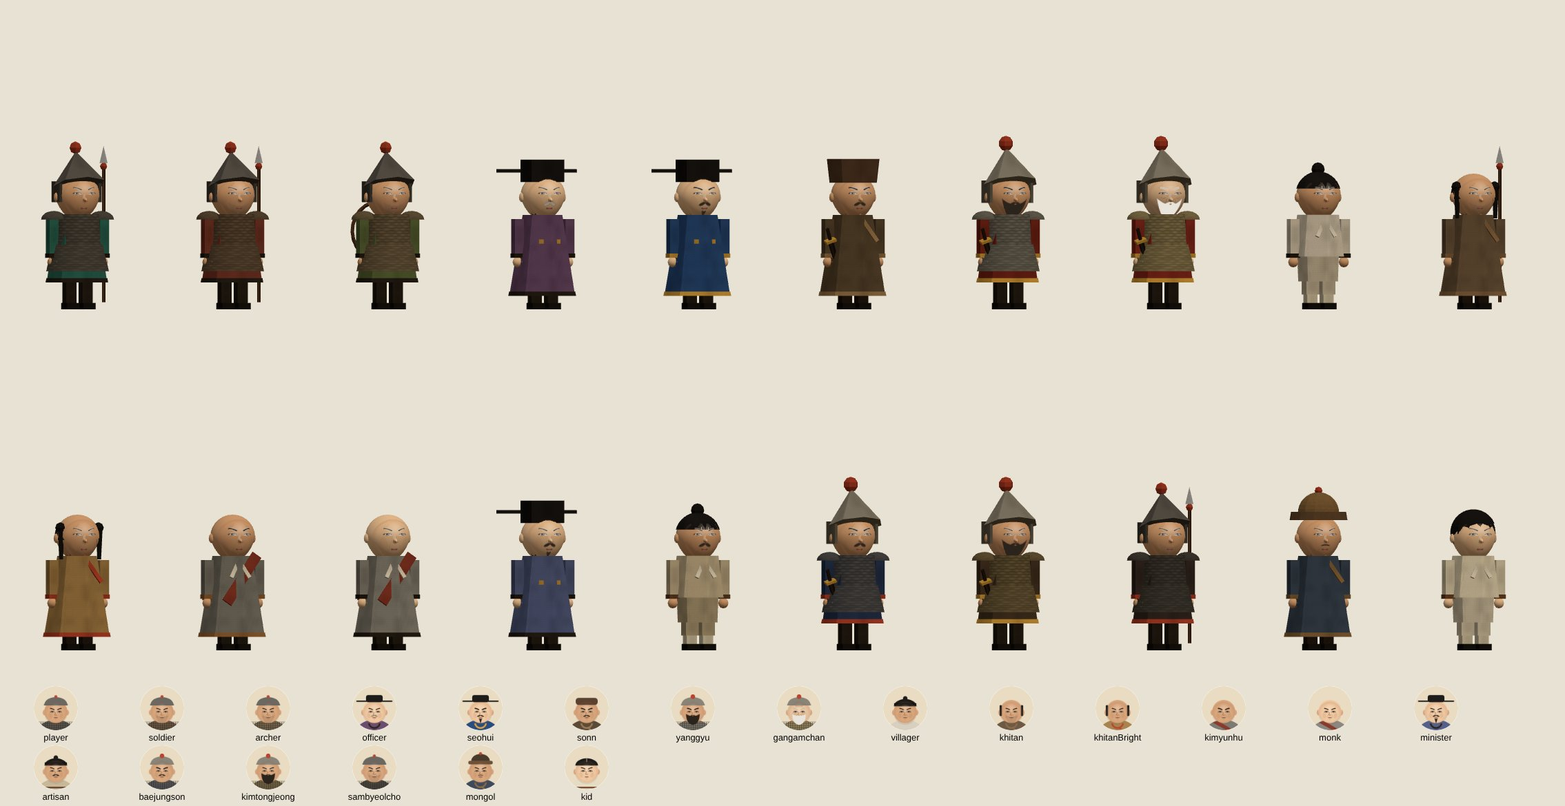
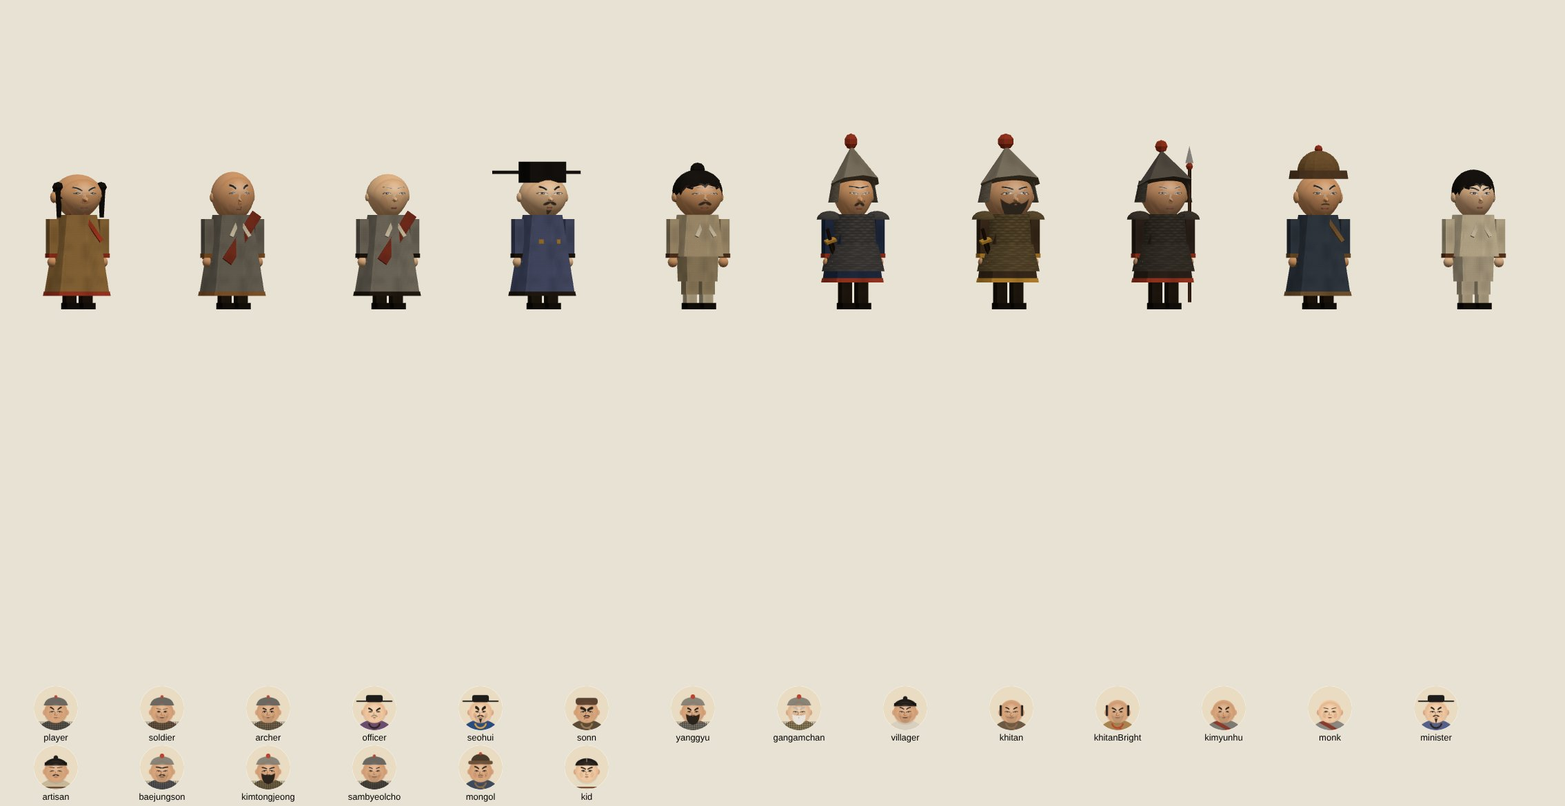
생김새: 사람마다 다른 눈·눈썹·코·입·턱·얼굴 넓이·피부빛(faceVariant), 상투·댕기 머리 선 고침 (D-54)
Claude-Session: https://claude.ai/code/session_01RgZ5G1NQJkFwTfNsevZYYJ

diff --git a/core/faces.js b/core/faces.js
@@ -9,6 +9,8 @@ const SKIN = '#f0c9a2', SKIN_SHADE = '#d9a57f', INK = '#2b241c';
 //       beard(null·mustache·thin·thick·walrus·goatee·full), beardColor, browColor, glasses('round'), age('old'), blush
 export function drawFeatures(g, face = {}, cx, cy, R) {
   const { eyes = 'round', brows = 'normal', mouth = 'smile', beard = null, beardColor = INK, browColor = INK, glasses = null, age = null } = face;
+  // 사람마다 다른 생김새(D-54): faceVariant가 정한 눈·눈썹·코·입 크기와 모양(없으면 기본)
+  const v = { eyeW: 1, eyeH: 1, tilt: 0, gap: 1, lid: 'double', browT: 1, browY: 0, browL: 1, browA: 1, noseW: 1, noseL: 1, mouthW: 1, lip: 1, mole: null, cheek: 1, iris: '#4a3020', ...(face.v || {}) };
   const LINE = '#8a5a40', SHADE = 'rgba(150, 95, 65, 0.55)';
   g.save();
   g.lineCap = 'round'; g.lineJoin = 'round';
@@ -25,6 +27,7 @@ export function drawFeatures(g, face = {}, cx, cy, R) {
     hi.addColorStop(0, 'rgba(255, 240, 225, 0.35)'); hi.addColorStop(1, 'rgba(255, 240, 225, 0)');
     g.fillStyle = hi; g.beginPath(); g.ellipse(cx, cy - 0.3 * R, 0.5 * R, 0.55 * R, 0, 0, Math.PI * 2); g.fill();
     g.fillStyle = 'rgba(150, 95, 65, 0.13)';
+    g.fillStyle = `rgba(150, 95, 65, ${0.13 * v.cheek})`;
     for (const sx of [-1, 1]) { g.beginPath(); g.ellipse(cx + sx * 0.5 * R, cy + 0.28 * R, 0.16 * R, 0.26 * R, sx * 0.3, 0, Math.PI * 2); g.fill(); }
   }
   // 어른 남자(수염이 있거나 sex가 정해지지 않은 어른): 옅은 팔자 주름. 아이·젊은이(age: 'young')는 그리지 않는다
@@ -33,7 +36,7 @@ export function drawFeatures(g, face = {}, cx, cy, R) {
     for (const sx of [-1, 1]) { g.beginPath(); g.moveTo(cx + sx * 0.14 * R, cy + 0.16 * R); g.quadraticCurveTo(cx + sx * 0.27 * R, cy + 0.3 * R, cx + sx * 0.24 * R, cy + 0.46 * R); g.stroke(); }
   }
   // 수염 자국(군인·일꾼 stubble)
-  if (face.stubble) {
+  if (face.stubble || v.stubble) {
     g.fillStyle = 'rgba(70, 60, 55, 0.16)';
     g.beginPath(); g.moveTo(cx - 0.55 * R, cy + 0.25 * R); g.quadraticCurveTo(cx - 0.45 * R, cy + 0.92 * R, cx, cy + 0.96 * R); g.quadraticCurveTo(cx + 0.45 * R, cy + 0.92 * R, cx + 0.55 * R, cy + 0.25 * R); g.quadraticCurveTo(cx, cy + 0.5 * R, cx - 0.55 * R, cy + 0.25 * R); g.fill();
   }
@@ -46,13 +49,16 @@ export function drawFeatures(g, face = {}, cx, cy, R) {
       g.beginPath(); g.arc(cx + sx * 0.33 * R, cy + 0.02 * R, 0.11 * R, Math.PI * 0.2, Math.PI * 0.8); g.stroke();
     }
   }
-  // 코: 콧날 그림자와 콧구멍
+  // 코: 콧날 그림자와 콧구멍(사람마다 넓이·길이가 다르다)
+  g.save(); g.translate(cx, cy); g.scale(v.noseW, v.noseL); g.translate(-cx, -cy);
   g.strokeStyle = LINE; g.lineWidth = Math.max(1.5, 0.035 * R);
   g.beginPath(); g.moveTo(cx - 0.03 * R, cy + 0.0 * R); g.quadraticCurveTo(cx - 0.08 * R, cy + 0.17 * R, cx - 0.07 * R, cy + 0.2 * R); g.stroke();
   g.beginPath(); g.moveTo(cx - 0.1 * R, cy + 0.22 * R); g.quadraticCurveTo(cx, cy + 0.27 * R, cx + 0.1 * R, cy + 0.22 * R); g.stroke();
+  g.restore();
   // 입: 윗입술 선과 아랫입술
   const my = cy + 0.46 * R;
   g.lineWidth = Math.max(2, 0.045 * R); g.strokeStyle = '#5a2e24';
+  g.save(); g.translate(cx, my); g.scale(v.mouthW, v.lip); g.translate(-cx, -my); // 입 넓이와 입술 두께
   if (mouth === 'smile') { g.beginPath(); g.arc(cx, my - 0.12 * R, 0.17 * R, Math.PI * 0.2, Math.PI * 0.8); g.stroke(); }
   else if (mouth === 'open') { g.fillStyle = '#7a2a22'; g.beginPath(); g.ellipse(cx, my, 0.1 * R, 0.08 * R, 0, 0, Math.PI * 2); g.fill(); }
   else {
@@ -63,6 +69,7 @@ export function drawFeatures(g, face = {}, cx, cy, R) {
     g.beginPath(); g.moveTo(cx - lw * R, my); g.quadraticCurveTo(cx, my + 0.012 * R, cx + lw * R, my); g.stroke();
     g.fillStyle = 'rgba(150, 95, 65, 0.22)'; g.beginPath(); g.ellipse(cx, my + 0.17 * R, 0.08 * R, 0.035 * R, 0, 0, Math.PI * 2); g.fill(); // 아랫입술 밑 그늘
   }
+  g.restore();
   // 수염
   g.fillStyle = beardColor;
   if (beard === 'full') {
@@ -96,17 +103,18 @@ export function drawFeatures(g, face = {}, cx, cy, R) {
   }
   // 눈: 흰자(아몬드꼴), 갈색 눈동자, 윗눈꺼풀 선. kind는 지그시 감은 눈
   for (const sx of [-1, 1]) {
-    const ex = cx + sx * 0.33 * R, ey = cy - 0.06 * R;
+    const ex = cx + sx * 0.33 * R * v.gap, ey = cy - 0.06 * R;
+    g.save(); g.translate(ex, ey); g.rotate(-sx * v.tilt); g.translate(-ex, -ey); // 눈꼬리가 올라가거나 처진 눈
     if (eyes === 'kind') {
       g.strokeStyle = INK; g.lineWidth = Math.max(2, 0.05 * R);
       g.beginPath(); g.arc(ex, ey + 0.05 * R, 0.13 * R, Math.PI * 1.1, Math.PI * 1.9); g.stroke();
-      continue;
+      g.restore(); continue;
     }
-    const h = eyes === 'stern' ? 0.072 * R : 0.09 * R, w = 0.17 * R;
+    const h = (eyes === 'stern' ? 0.072 : 0.09) * R * v.eyeH, w = 0.17 * R * v.eyeW;
     g.fillStyle = '#f7f1e6';
     g.beginPath(); g.moveTo(ex - w, ey); g.quadraticCurveTo(ex, ey - h * 1.6, ex + w, ey); g.quadraticCurveTo(ex, ey + h * 1.2, ex - w, ey); g.fill();
     g.save(); g.clip();
-    g.fillStyle = '#4a3020'; g.beginPath(); g.arc(ex, ey + 0.005 * R, 0.078 * R, 0, Math.PI * 2); g.fill();
+    g.fillStyle = v.iris; g.beginPath(); g.arc(ex, ey + 0.005 * R, 0.078 * R * Math.min(1.1, v.eyeH), 0, Math.PI * 2); g.fill();
     g.fillStyle = '#120c08'; g.beginPath(); g.arc(ex, ey + 0.005 * R, 0.04 * R, 0, Math.PI * 2); g.fill();
     g.fillStyle = '#ffffff'; g.beginPath(); g.arc(ex + 0.02 * R, ey - 0.02 * R, 0.018 * R, 0, Math.PI * 2); g.fill();
     g.restore();
@@ -114,8 +122,9 @@ export function drawFeatures(g, face = {}, cx, cy, R) {
     g.beginPath(); g.moveTo(ex - w * 1.05, ey + 0.005 * R); g.quadraticCurveTo(ex, ey - h * 1.7, ex + w * 1.05, ey); g.stroke();
     // 쌍꺼풀 대신 옅은 눈두덩 선과 아래 눈꺼풀
     g.strokeStyle = 'rgba(150, 95, 65, 0.4)'; g.lineWidth = Math.max(1.2, 0.022 * R);
-    g.beginPath(); g.moveTo(ex - w * 0.8, ey - h * 1.25); g.quadraticCurveTo(ex, ey - h * 2.3, ex + w * 0.95, ey - h * 1.1); g.stroke();
+    if (v.lid === 'double') { g.beginPath(); g.moveTo(ex - w * 0.8, ey - h * 1.25); g.quadraticCurveTo(ex, ey - h * 2.3, ex + w * 0.95, ey - h * 1.1); g.stroke(); } // 쌍꺼풀(없는 사람은 홑꺼풀)
     g.beginPath(); g.moveTo(ex - w * 0.7, ey + h * 0.75); g.quadraticCurveTo(ex, ey + h * 1.35, ex + w * 0.8, ey + h * 0.6); g.stroke();
+    g.restore();
   }
   // 안경: 검은 둥근 테와 다리
   if (glasses === 'round') {
@@ -125,17 +134,43 @@ export function drawFeatures(g, face = {}, cx, cy, R) {
     for (const sx of [-1, 1]) { g.beginPath(); g.moveTo(cx + sx * 0.52 * R, cy - 0.07 * R); g.lineTo(cx + sx * 0.8 * R, cy - 0.12 * R); g.stroke(); }
   }
   // 눈썹
-  g.strokeStyle = browColor; g.lineWidth = Math.max(2, (face.sex === 'f' ? 0.055 : face.brow === 'thick' ? 0.1 : 0.075) * R);
+  g.strokeStyle = browColor; g.lineWidth = Math.max(2, (face.sex === 'f' ? 0.055 : face.brow === 'thick' ? 0.1 : 0.075) * R * v.browT);
   for (const sx of [-1, 1]) {
-    const bx = cx + sx * 0.33 * R, by = cy - 0.33 * R;
+    const bx = cx + sx * 0.33 * R * v.gap, by = cy - 0.33 * R + v.browY * R;
+    g.save(); g.translate(bx, by); g.scale(v.browL, v.browA); g.translate(-bx, -by); // 눈썹 길이와 꺾임
     g.beginPath();
     // 안쪽 끝(코 쪽)이 내려가면 근엄하고, 올라가면 걱정스러워 보인다
     if (brows === 'stern') { g.moveTo(bx - sx * 0.17 * R, by + 0.07 * R); g.quadraticCurveTo(bx, by - 0.04 * R, bx + sx * 0.16 * R, by - 0.05 * R); }
     else if (brows === 'worried') { g.moveTo(bx - sx * 0.17 * R, by - 0.08 * R); g.lineTo(bx + sx * 0.15 * R, by + 0.06 * R); }
     else { g.moveTo(bx - 0.16 * R, by); g.quadraticCurveTo(bx, by - 0.1 * R, bx + 0.16 * R, by); }
-    g.stroke();
+    g.stroke(); g.restore();
   }
+  if (v.mole) { g.fillStyle = 'rgba(70, 45, 35, 0.8)'; g.beginPath(); g.arc(cx + v.mole[0] * R, cy + v.mole[1] * R, 0.03 * R, 0, Math.PI * 2); g.fill(); } // 점
   g.restore();
+}
+
+// 인물마다 다른 생김새(D-54): 생김새 묶음(옷·모자·얼굴)으로 늘 같은 값을 만든다. face.v로 직접 정할 수도 있다.
+// 3D 머리(people.js: 턱 넓이 jaw·얼굴 넓이 faceW·코 크기·귀 크기)와 얼굴 무늬·대화창 초상화가 같은 값을 쓴다.
+const variantCache = new Map();
+export function faceVariant(L = {}) {
+  const key = JSON.stringify([L.robe, L.hat, L.outfit, L.trim, L.face]);
+  if (variantCache.has(key)) return variantCache.get(key);
+  let h = 2166136261; for (let i = 0; i < key.length; i++) { h ^= key.charCodeAt(i); h = Math.imul(h, 16777619); }
+  const r = () => { h ^= h << 13; h ^= h >>> 17; h ^= h << 5; return ((h >>> 0) % 10000) / 10000; };
+  const f = L.face || {}, kid = f.age === 'young', fem = f.sex === 'f', old = f.age === 'old';
+  const span = (a, b) => a + (b - a) * r();
+  const v = {
+    eyeW: span(0.74, 1.3) * (kid ? 1.06 : 1), eyeH: span(0.68, 1.42) * (kid ? 1.12 : 1), tilt: span(-0.2, 0.3), gap: span(0.88, 1.12),
+    lid: r() < 0.45 ? 'double' : 'mono', browT: span(0.6, 1.65) * (fem ? 0.8 : 1), browY: span(-0.07, 0.06), browL: span(0.75, 1.25), browA: span(0.35, 1.7),
+    noseW: span(0.72, 1.5), noseL: span(0.8, 1.38) * (kid ? 0.88 : 1), mouthW: span(0.74, 1.32), lip: span(0.6, 1.5) * (fem ? 1.12 : 1),
+    cheek: span(0.5, 1.8) * (old ? 1.3 : 1), mole: r() < 0.22 ? [span(-0.55, 0.55), span(0.05, 0.6)] : null,
+    iris: ['#4a3020', '#3a2616', '#5a3a22', '#2e2014'][Math.floor(r() * 4)],
+    jaw: span(0.04, 0.34) * (fem || kid ? 1.15 : 1), faceW: span(0.9, 1.13), faceH: span(0.93, 1.09), ear: span(0.8, 1.3), tone: span(-1, 1),
+    stubble: !fem && !kid && r() < 0.3,
+    ...(f.v || {}),
+  };
+  variantCache.set(key, v);
+  return v;
 }
 
 // 3D 머리 앞쪽에 입힐 얼굴 무늬 (배경 투명). 같은 얼굴은 한 번만 만든다.
@@ -272,7 +307,7 @@ export function portraitURL(lookId) {
   g.fillStyle = SKIN_SHADE; for (const s of [-1, 1]) { g.beginPath(); g.ellipse(cx + s * R * 0.98 * sx, cy + 4, 7, 10, 0, 0, Math.PI * 2); g.fill(); } // 귀
   g.fillStyle = skinCol; g.beginPath(); g.ellipse(cx, cy + (sy - 1) * R * 0.4, R * sx, R * sy, 0, 0, Math.PI * 2); g.fill();
   drawHat(g, L.hat, cx, cy, R, L.hairColor);
-  drawFeatures(g, L.face, cx, cy + 4, R * 0.95);
+  drawFeatures(g, { ...L.face, v: faceVariant(L) }, cx, cy + 4, R * 0.95);
   g.restore();
   const url = cv.toDataURL('image/png');
   portraitCache.set(lookId, url);

diff --git a/core/people.js b/core/people.js
@@ -1,6 +1,6 @@
 // 코드로 만드는 로우폴리 인물과 걷기 동작, 머리 위 표시.
 import * as THREE from 'three';
-import { faceTexture } from './faces.js';
+import { faceTexture, faceVariant } from './faces.js';
 import { worldMapped } from './textures.js';
 
 // 장면에서 쓰는 색 → 어울리는 무늬. 무늬를 따로 말하지 않으면 색으로 고른다(성벽 회색은 돌, 지붕 먹색은 기와, 갈색 목재는 나뭇결).
@@ -32,7 +32,7 @@ const HEAD_Y = 2.02, HEAD_SCALE = 1.3;
 // 피부색(D-54): 밝은 얼굴(light), 보통, 햇볕에 그을린 얼굴(tan: 농민·군사·일꾼), 나이 든 얼굴(old)
 export const SKINS = { light: 0xf4d2b0, base: 0xf0c9a2, tan: 0xd9a77e, old: 0xe8c4a0 };
 const skinMats = new Map();
-const headMat = (skin = 'base') => { const c = SKINS[skin] ?? SKINS.base; if (!skinMats.has(c)) skinMats.set(c, new THREE.MeshLambertMaterial({ color: c })); return skinMats.get(c); };
+const headMat = (skin = 'base', tone = 0) => { const c0 = new THREE.Color(SKINS[skin] ?? SKINS.base); const c = c0.offsetHSL(0, tone * 0.03, tone * 0.035).getHex(); if (!skinMats.has(c)) skinMats.set(c, new THREE.MeshLambertMaterial({ color: c })); return skinMats.get(c); };
 // 찰갑(작은 쇠·가죽 조각을 끈으로 엮은 갑옷) 무늬: 회색조로 그려 재질 색을 곱한다
 let lamellarTex = null;
 function lamellar() {
@@ -126,7 +126,9 @@ let personCount = 0;
 // outfit(D-54): 'armor'(고려·조선 찰갑: 몸통·어깨·허리 아래 갑옷 조각, armor 색), 'danryeong'(둥근 깃 단령과 각대), 'jangsam'(스님 장삼과 가사),
 //   'short'(저고리와 바지: 웃옷이 엉덩이까지, pants 색 바지와 행전), 'deel'(거란·몽골: 오른쪽으로 여미는 긴 옷과 목 긴 장화), 'suit'(양복),
 //   'chima'(저고리와 긴 치마: 웃옷이 짧고 치마가 발목까지), 'uniform'(단추 달린 제복·군복·교복, 주머니)
-export function makePerson({ robe, hat, trim = 0x2b241c, face = {}, gear = null, outfit = null, hairColor = null, armor = 0x6b665e, pants = null, skin = null }, { track = true } = {}) {
+export function makePerson(look = {}, { track = true } = {}) {
+  const { robe, hat, trim = 0x2b241c, face = {}, gear = null, outfit = null, hairColor = null, armor = 0x6b665e, pants = null, skin = null } = look;
+  const fv = faceVariant(look); // 사람마다 다른 생김새(D-54)
   const g = new THREE.Group();
   const legs = [], arms = [];
   for (const sx of [-0.16, 0.16]) {
@@ -192,7 +194,7 @@ export function makePerson({ robe, hat, trim = 0x2b241c, face = {}, gear = null,
     const piv = new THREE.Group(); piv.position.set(sx, 1.65, 0); g.add(piv);
     part(new THREE.BoxGeometry(0.18, 0.72, 0.2), robe, 0, -0.34, 0, piv);
     part(new THREE.BoxGeometry(0.2, 0.08, 0.22), trim, 0, -0.66, 0, piv); // 소맷부리
-    const hand = new THREE.Mesh(new THREE.SphereGeometry(0.1, 8, 6), headMat(sk)); hand.position.set(0, -0.78, 0); hand.castShadow = true; hand.name = 'hand'; piv.add(hand);
+    const hand = new THREE.Mesh(new THREE.SphereGeometry(0.1, 8, 6), headMat(sk, fv.tone)); hand.position.set(0, -0.78, 0); hand.castShadow = true; hand.name = 'hand'; piv.add(hand);
     arms.push(piv);
   }
   // 머리 묶음: 둥근 머리 + 만화풍 얼굴 무늬 + 모자. 만화처럼 머리를 크게(1.3배) 그린다.
@@ -200,20 +202,21 @@ export function makePerson({ robe, hat, trim = 0x2b241c, face = {}, gear = null,
   hg.position.set(0, HEAD_Y + 0.08, 0); hg.scale.setScalar(HEAD_SCALE); g.add(hg);
   const hp = (geo, color, x, y, z) => part(geo, color, x, y - HEAD_Y, z, hg); // y는 몸 기준 높이로 적는다
   // 머리 모양(D-54): 공 대신 위가 둥글고 턱으로 갈수록 갸름한 달걀꼴(얼굴 무늬 판도 같은 꼴로)
-  const jawify = geo => { const pa = geo.attributes.position; for (let i = 0; i < pa.count; i++) { const y = pa.getY(i); if (y < 0) { const k = 1 - 0.2 * Math.min(1, -y / 0.32); pa.setX(i, pa.getX(i) * k); pa.setZ(i, pa.getZ(i) * (1 - 0.08 * Math.min(1, -y / 0.32))); pa.setY(i, y * 1.1); } } geo.computeVertexNormals(); return geo; };
-  const head = new THREE.Mesh(jawify(new THREE.SphereGeometry(0.32, 18, 14)), headMat(sk));
+  const jawify = geo => { const pa = geo.attributes.position; for (let i = 0; i < pa.count; i++) { const y = pa.getY(i); if (y < 0) { const k = 1 - fv.jaw * Math.min(1, -y / 0.32); pa.setX(i, pa.getX(i) * k); pa.setZ(i, pa.getZ(i) * (1 - 0.08 * Math.min(1, -y / 0.32))); pa.setY(i, y * 1.1); } } geo.computeVertexNormals(); return geo; };
+  const head = new THREE.Mesh(jawify(new THREE.SphereGeometry(0.32, 18, 14)), headMat(sk, fv.tone));
   head.name = 'head'; head.castShadow = true; hg.add(head);
   const faceGeo = jawify(new THREE.SphereGeometry(0.326, 18, 16, Math.PI / 2 - 1.15, 2.3, 0.62, 1.85));
-  const faceMesh = new THREE.Mesh(faceGeo, faceMat(face));
+  const faceMesh = new THREE.Mesh(faceGeo, faceMat({ ...face, v: fv }));
   faceMesh.name = 'face'; hg.add(faceMesh);
   // 얼굴 모양: 갸름한 얼굴(long)은 위아래로, 둥근 얼굴(round)은 옆으로 조금 늘린다
   if (face.shape === 'long') hg.scale.set(HEAD_SCALE * 0.92, HEAD_SCALE * 1.1, HEAD_SCALE * 0.96);
   else if (face.shape === 'round') hg.scale.set(HEAD_SCALE * 1.06, HEAD_SCALE * 0.98, HEAD_SCALE * 1.04);
+  else hg.scale.set(HEAD_SCALE * fv.faceW, HEAD_SCALE * fv.faceH, HEAD_SCALE * (0.98 + (fv.faceW - 1) * 0.5)); // 사람마다 조금 다른 얼굴 넓이
   // 귀와 코
   const ears = new THREE.Group(); ears.name = 'ears'; hg.add(ears);
-  for (const sx of [-1, 1]) { const e = new THREE.Mesh(new THREE.SphereGeometry(0.07, 8, 6), headMat(sk)); e.scale.set(0.55, 1, 0.8); e.position.set(sx * 0.315, -0.02, -0.02); ears.add(e); }
-  const nose = new THREE.Mesh(new THREE.ConeGeometry(0.045, 0.1, 6), headMat(sk)); nose.name = 'nose';
-  nose.rotation.x = Math.PI / 2 + 0.25; nose.position.set(0, -0.06, 0.33); hg.add(nose);
+  for (const sx of [-1, 1]) { const e = new THREE.Mesh(new THREE.SphereGeometry(0.07, 8, 6), headMat(sk, fv.tone)); e.scale.set(0.55 * fv.ear, fv.ear, 0.8 * fv.ear); e.position.set(sx * 0.315, -0.02, -0.02); ears.add(e); }
+  const nose = new THREE.Mesh(new THREE.ConeGeometry(0.045, 0.1, 6), headMat(sk, fv.tone)); nose.name = 'nose';
+  nose.rotation.x = Math.PI / 2 + 0.25; nose.position.set(0, -0.06, 0.33); nose.scale.set(fv.noseW, fv.noseL, fv.noseW); hg.add(nose);
   // 안경(둥근 검은 테)
   if (face.glasses === 'round') {
     const gl = new THREE.Group(); gl.name = 'glasses'; hg.add(gl);
@@ -258,12 +261,13 @@ export function makePerson({ robe, hat, trim = 0x2b241c, face = {}, gear = null,
   } else if (hat === 'daenggi') {   // 혼인 전 아이·젊은이: 가운데 가르마, 뒤로 길게 땋은 머리와 붉은 댕기
     const hz = new THREE.Group(); hz.name = 'hat:daenggi'; hg.add(hz);
     part(new THREE.SphereGeometry(0.335, 12, 8, 0, Math.PI * 2, 0, Math.PI / 2.7), hc, 0, 0.06, -0.01, hz, 'grain');
-    part(new THREE.SphereGeometry(0.33, 12, 6, 0, Math.PI * 2, Math.PI / 2.7, 0.9), hc, 0, 0.06, -0.03, hz, 'grain').scale.set(1, 1, 0.97); // 뒤통수
+    part(new THREE.SphereGeometry(0.333, 12, 6, 0, Math.PI * 2, Math.PI / 2.7 - 0.08, 0.98), hc, 0, 0.06, -0.025, hz, 'grain').scale.set(1, 1, 0.97); // 뒤통수
     part(new THREE.CylinderGeometry(0.055, 0.04, 0.6, 6), hc, 0, -0.3, -0.3, hz, 'grain');
     part(new THREE.BoxGeometry(0.1, 0.16, 0.03), 0xb8282c, 0, -0.62, -0.31, hz, 'grain');
   } else if (hat === 'topknot') {   // 맨머리에 상투와 망건(이마 위 검은 띠)
-    hp(new THREE.SphereGeometry(0.33, 12, 8, 0, Math.PI * 2, 0, Math.PI / 2.4), hc, 0, 2.04, -0.01);
-    hp(new THREE.SphereGeometry(0.1, 8, 6), hc, 0, 2.4, -0.02);
+    hp(new THREE.SphereGeometry(0.335, 12, 8, 0, Math.PI * 2, 0, Math.PI / 2.9), hc, 0, 2.08, -0.01); // 이마 위까지 빗어 올린 머리
+    hp(new THREE.SphereGeometry(0.333, 12, 6, 0, Math.PI * 2, Math.PI / 2.9 - 0.08, 1.03), hc, 0, 2.08, -0.025).scale.set(1, 1, 0.97); // 뒤통수
+    hp(new THREE.SphereGeometry(0.1, 8, 6), hc, 0, 2.42, -0.02);
     const mg = new THREE.Mesh(new THREE.CylinderGeometry(0.29, 0.31, 0.06, 16, 1, true), mat(0x141210, 'cloth', 'object')); mg.material.side = THREE.DoubleSide; mg.position.y = 0.19; // 망건은 이마 위(눈썹보다 높게) mg.name = 'manggeon'; hg.add(mg);
   } else if (JOSEON_HATS[hat]) {    // 조선 모자: 묶음 하나(hat:이름)로 만든다
     const hatG = new THREE.Group(); hatG.name = `hat:${hat}`; hg.add(hatG);

diff --git a/tools/people-gallery.html b/tools/people-gallery.html
@@ -16,14 +16,14 @@
 <body>
 <div id="row"></div>
 <script type="module">
-  // 개발용: 등장인물 생김새를 한 줄로 세워 본다(D-54 생김새 바꾸기). ?ids=soldier,monk(없으면 모두)&per=8(한 줄 인원)&angle=0.35(돌려 보는 각)&zoom=2(크게)
+  // 개발용: 등장인물 생김새를 한 줄로 세워 본다(D-54 생김새 바꾸기). ?ids=soldier,monk(없으면 모두)&per=8(한 줄 인원)&angle=0.35(돌려 보는 각)&zoom=2(크게)&heads=1(얼굴만)
   import * as THREE from 'three';
   import { makePerson } from '../core/people.js';
   import { LOOKS } from '../content/characters.js';
   import { portraitURL } from '../core/faces.js';
   const q = new URLSearchParams(location.search);
   const ids = (q.get('ids') || Object.keys(LOOKS).join(',')).split(',').filter(id => LOOKS[id]);
-  const per = +(q.get('per') || 8), angle = +(q.get('angle') || 0.35), zoom = +(q.get('zoom') || 1), W = per * 150 * zoom, rows = Math.ceil(ids.length / per), H = rows * 330 * zoom, U = 52 * zoom;
+  const per = +(q.get('per') || 8), angle = +(q.get('angle') || 0.35), zoom = +(q.get('zoom') || 1), W = per * 150 * zoom, rows = Math.ceil(ids.length / per), heads = q.get('heads') === '1', CH = heads ? 120 : 330, H = rows * CH * zoom, U = 52 * zoom;
   const renderer = new THREE.WebGLRenderer({ antialias: true, preserveDrawingBuffer: true }); renderer.setSize(W, H); renderer.shadowMap.enabled = true;
   document.body.prepend(renderer.domElement);
   const scene = new THREE.Scene(); scene.background = new THREE.Color(0xe8e2d4);
@@ -33,10 +33,23 @@
   ids.forEach((id, i) => {
     const p = makePerson(LOOKS[id], { track: false });
     const col = i % per, row = Math.floor(i / per);
-    p.position.set((col - (per - 1) / 2) * (150 * zoom / U), 1.6 + H / 2 / U - 330 * zoom / U * (row + 1) + 0.6, 0); p.rotation.y = angle;
+    p.position.set((col - (per - 1) / 2) * (150 * zoom / U), 1.6 + H / 2 / U - CH * zoom / U * (row + 0.5) - (heads ? 2.15 : -0.6 - CH * zoom / U / 2), 0); p.rotation.y = angle;
     scene.add(p);
   });
-  renderer.render(scene, cam);
+  if (heads) { // 얼굴만: 한 사람씩 머리를 크게 찍어 칸에 붙인다
+    renderer.setSize(240, 240); renderer.domElement.style.display = 'none';
+    const hc = new THREE.OrthographicCamera(-0.62, 0.62, 0.62, -0.62, 0.1, 100);
+    const grid = document.createElement('div'); grid.style.cssText = 'display:flex;flex-wrap:wrap;gap:6px;padding:6px'; document.body.prepend(grid);
+    scene.children.filter(o => o.userData?.legs).forEach(o => { o.visible = false; });
+    ids.forEach(id => {
+      const p = makePerson(LOOKS[id], { track: false }); p.scale.setScalar(1); p.rotation.y = angle * 0.6; scene.add(p);
+      const top = p.getObjectByName('headGroup').getWorldPosition(new THREE.Vector3());
+      hc.position.set(top.x, top.y + 0.05, 20); hc.lookAt(top.x, top.y + 0.05, 0);
+      renderer.render(scene, hc);
+      const im = document.createElement('img'); im.src = renderer.domElement.toDataURL(); im.title = id; im.style.width = '240px'; grid.append(im);
+      scene.remove(p);
+    });
+  } else renderer.render(scene, cam);
   const rowEl = document.getElementById('row');
   for (const id of ids) { const d = document.createElement('div'); d.className = 'cell'; d.innerHTML = `<img src="${portraitURL(id)}"><div>${id}</div>`; rowEl.append(d); }
   document.title = 'done';

diff --git a/tests/faces.test.js b/tests/faces.test.js
@@ -56,7 +56,7 @@ test('faces: dialogue shows the speaker face, and the narrator keeps its mark', 
 test('faces: heads are drawn larger, cartoon style', () => {
   const p = makePerson(LOOKS.soldier);
   const hg = p.getObjectByName('headGroup');
-  ok(hg && hg.scale.x >= 1.25, 'head group scaled up');
+  ok(hg && (hg.scale.x + hg.scale.y) / 2 >= 1.15, 'head group scaled up'); // D-54: 사람마다 얼굴 넓이·길이가 조금씩 다르다
   ok(hg.getObjectByName('face'), 'face inside the head group');
 });
 

diff --git a/docs/team/decisions.md b/docs/team/decisions.md
@@ -314,5 +314,6 @@
 - 공용 얼굴(`core/faces.js`·`core/people.js`): 공 머리를 턱이 갸름한 달걀꼴로, 얼굴 판은 눈 아래를 1.5배 늘여 코·입·턱이 제자리에. 볼·턱 그늘과 이마 빛, 눈두덩·아래 눈꺼풀 선, 조금 큰 눈, 윗입술·아랫입술, 어른 남자의 옅은 팔자 주름. 새 얼굴 값: `skin`(light·base·tan·old), `face.age`('young'), `face.sex`('f'), `face.stubble`, `face.brow`('thick'). 얼굴 판 384px.
 - 공용 옷(`outfit`): `armor`(찰갑 무늬 몸통·어깨·허리 아래 자락, `armor` 색), `danryeong`(둥근 깃 단령, 발등까지, 검은 각대와 금빛 장식), `jangsam`(장삼과 붉은 밤색 가사), `short`(저고리와 바지·행전, `pants` 색), `deel`(거란·몽골: 오른쪽으로 여민 섶, 목 긴 장화), `chima`(저고리와 치마), `uniform`(단추·주머니 제복). 모자·머리: `kunfa`(거란 곤발), `mongol`(몽골 모자), `daenggi`(땋은 머리와 붉은 댕기), 상투에 망건, 투구에 찰갑 드림(뒤와 양옆). 몸통 옷 이름은 `robe`(앉기 `sitDown`이 이름으로 찾는다).
 - 고려편 적용: 병사·궁수·삼별초·플레이어는 찰갑, 장수(양규·강감찬·배중손·김통정)는 장수 투구와 찰갑, 관리(서희·관리·신하)는 단령과 복두, 거란군은 곤발과 거란 옷, 소손녕은 털모자와 거란 옷, 몽골군은 몽골 모자와 델, 김윤후·스님은 장삼과 가사, 마을 사람·장인은 저고리와 바지, 아이는 댕기머리.
-- 개발 도구 `tools/people-gallery.html`(?ids=…&zoom=2). 사진 `docs/team/shots/d54-goryeo-*.jpg`.
+- 선생님 의견(2026-10-29): 눈코입이 다 똑같아 개성이 없다 → 사람마다 다른 생김새 `faceVariant`(core/faces.js): 생김새 묶음에서 늘 같은 값을 만들어 눈 넓이·높이·기울기·사이, 쌍꺼풀/홑꺼풀, 눈썹 굵기·높이·길이·꺾임, 코 넓이·길이(3D 코도), 입 넓이·입술 두께, 볼 그늘, 점, 눈동자 빛깔, 턱(갸름/각진), 얼굴 넓이·길이, 귀 크기, 피부빛 조금, 수염 자국을 정한다. 3D 얼굴과 대화창 초상화가 같은 값을 쓴다. `face.v`로 직접 정할 수도 있다(이름난 인물용).
+- 개발 도구 `tools/people-gallery.html`(?ids=…&zoom=2, &heads=1이면 얼굴만 크게). 사진 `docs/team/shots/d54-goryeo-*.jpg`.
 - 상태: 작업 브랜치, 선생님 사진 확인 기다림. 다음은 조선편.
